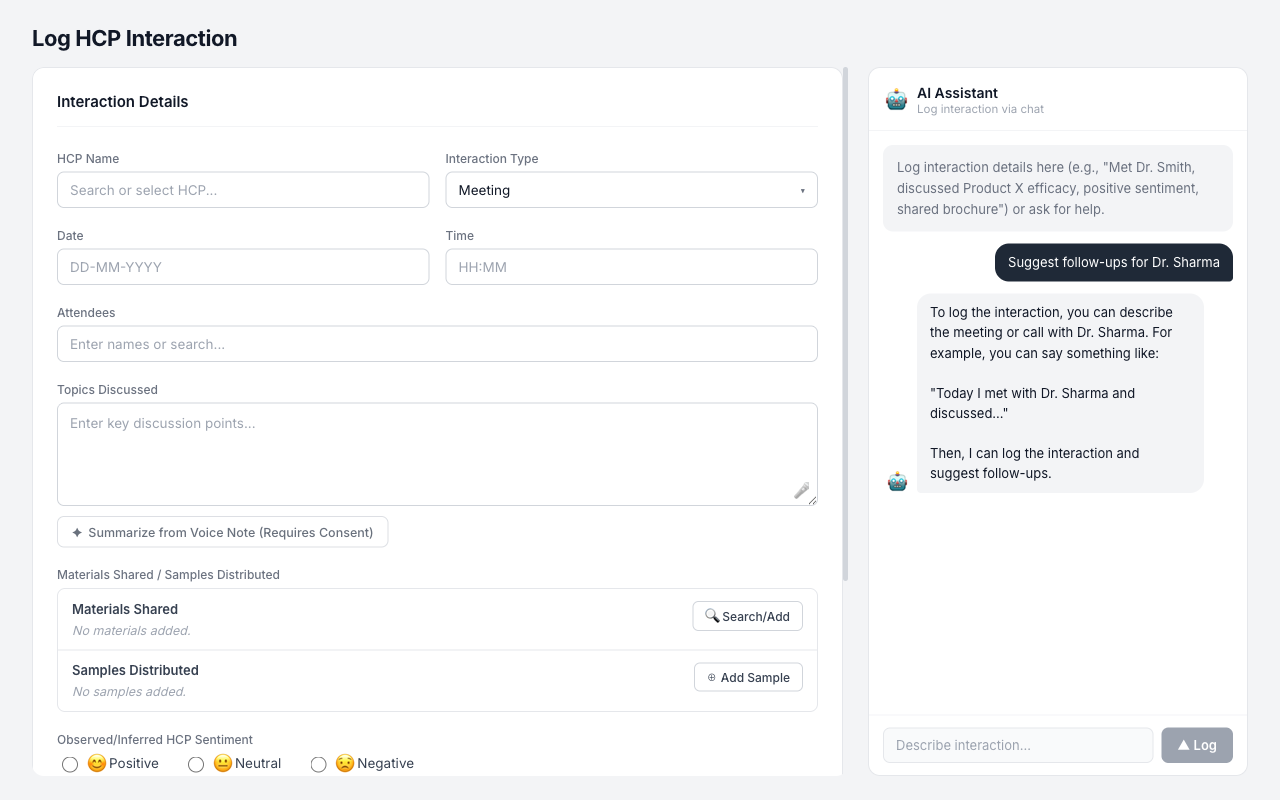
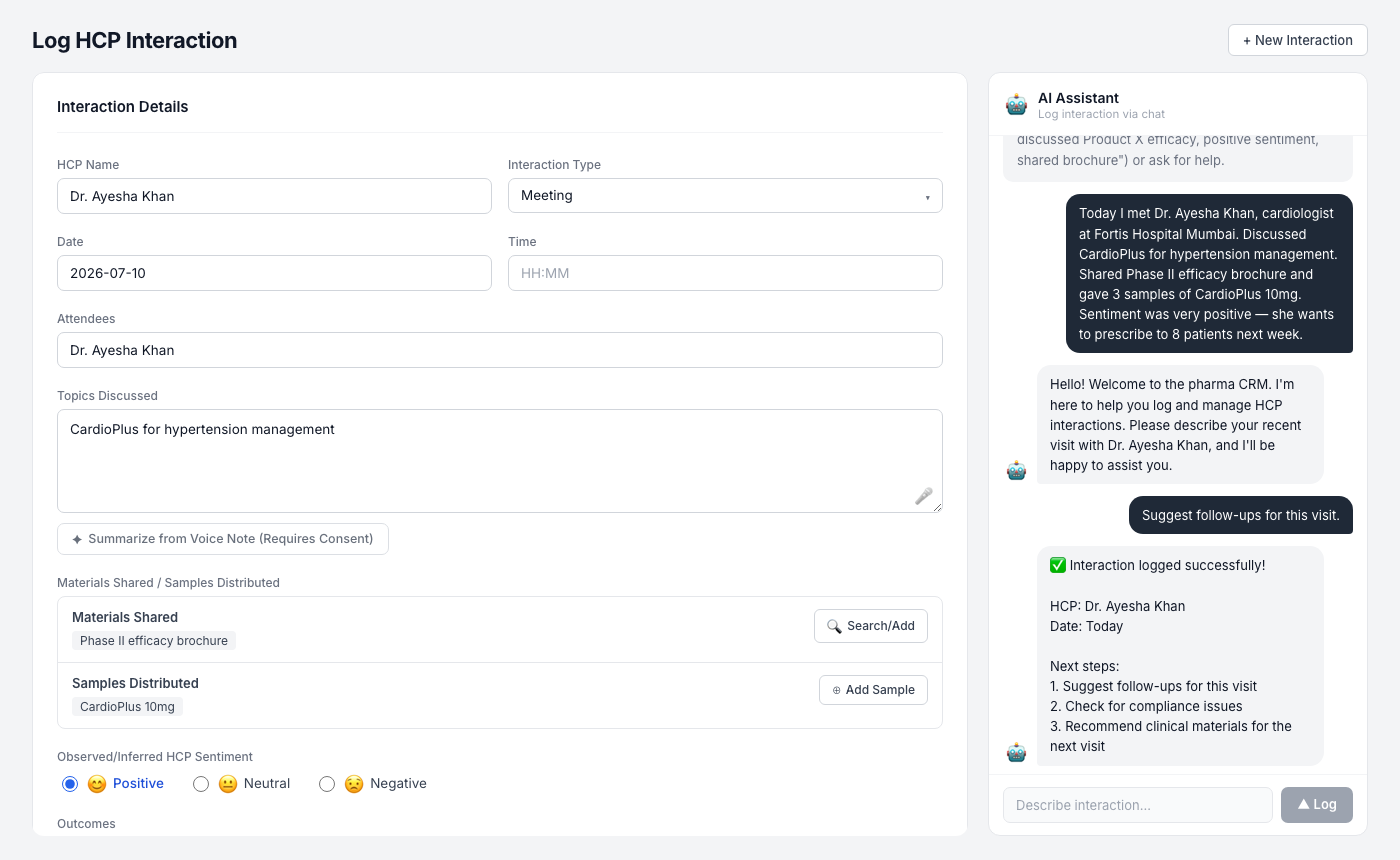
feat: add live screenshots for all 5 tools and scope enforcement, update README

diff --git a/README.md b/README.md
@@ -8,15 +8,41 @@
 
 ---
 
-## Screenshots
+## Live Demo Screenshots
 
-**Empty screen — form and chat ready**
+### Empty screen — form and chat ready to use
 
 ![Empty form](screenshots/01_empty_form.png)
 
-**After logging — AI fills every field from the chat entry**
+---
+
+### After logging — AI fills every field from the chat entry
 
 ![Form filled by AI](screenshots/02_form_filled.png)
+
+---
+
+### Tool 3 — AI suggests HCP-specific follow-up actions
+
+![Follow-ups suggested](screenshots/03_follow_ups.png)
+
+---
+
+### Tool 4 — Compliance check against PhRMA / PDMA / Sunshine Act
+
+![Compliance check](screenshots/04_compliance.png)
+
+---
+
+### Tool 5 — Clinical materials recommended for the next visit
+
+![Materials recommended](screenshots/05_materials.png)
+
+---
+
+### Scope enforcement — off-topic queries are politely rejected
+
+![Off-topic rejected](screenshots/06_offtopic_rejected.png)
 
 ---
 
@@ -47,7 +73,7 @@ sequenceDiagram
     Tool->>LLM: Extraction LLM — NLP → structured JSON
     LLM-->>Tool: { hcp_name, date, topics, sentiment, outcomes, ... }
     Tool->>DB: INSERT INTO interactions → gets id = 7
-    Tool-->>Agent: "Interaction logged (ID 7). HCP: Dr. Sharma | Sentiment: Positive ..."
+    Tool-->>Agent: "Interaction logged (ID 7). HCP: Dr. Ayesha Khan ..."
 
     Agent->>LLM: Router LLM — anything else to do?
     LLM-->>Agent: No tool calls — compose final reply
@@ -82,19 +108,21 @@ sequenceDiagram
 ## The 5 LangGraph Tools
 
 | # | Tool | What it does | Triggered when rep says |
-|---|------|-------------|-----------------|
-| 1 | `log_interaction` | Extracts all 14 form fields from the chat entry → INSERT to DB | *"Today I met Dr. Priya Sharma at Apollo…"* |
-| 2 | `edit_interaction` | Differential update — changes only the mentioned fields, keeps everything else | *"Actually the sentiment was Neutral, not Positive"* |
+|---|------|-------------|------------------------|
+| 1 | `log_interaction` | Extracts all 14 form fields from the chat entry → INSERT to DB | *"Today I met Dr. Ayesha Khan at Fortis…"* |
+| 2 | `edit_interaction` | Differential update — changes only the mentioned fields, keeps everything else | *"Actually the interaction type was a conference"* |
 | 3 | `suggest_follow_ups` | Generates 4–5 HCP-specific, time-bound follow-up actions | *"Suggest follow-ups for this visit"* |
-| 4 | `check_compliance` | Audits against PhRMA Code, PDMA sample rules, Sunshine Act | *"Is this interaction compliant?"* |
-| 5 | `recommend_materials` | Suggests clinical materials for the next visit; skips what was already shared | *"What should I bring to Dr. Sharma next time?"* |
+| 4 | `check_compliance` | Audits against PhRMA Code, PDMA sample rules, Sunshine Act | *"Check compliance for this interaction"* |
+| 5 | `recommend_materials` | Suggests clinical materials for the next visit; skips what was already shared | *"What materials should I bring for the next visit?"* |
+
+The AI also enforces **scope** — any question outside HCP interaction management is politely redirected. Greetings (hi / hello) get a single welcome line asking the rep to describe their visit.
 
 **Why LangGraph instead of a simple LLM call?**
 
 The ReAct loop means the LLM sees tool results and keeps reasoning. This enables:
-- **Chaining**: "Check compliance and suggest follow-ups" → agent calls both tools in sequence
-- **Selective use**: A general question triggers no tool — no wasted DB writes
-- **Semantic routing**: The LLM reads tool docstrings to decide — not keyword matching
+- **Chaining**: "Check compliance and suggest follow-ups" → agent calls both tools in sequence, one result informs the next
+- **Selective use**: A general question triggers no tool — no wasted DB writes or LLM calls
+- **Semantic routing**: The LLM reads tool docstrings to decide which tool to call — not keyword matching
 
 ---
 
@@ -105,6 +133,7 @@ ai-hcp-crm/
 ├── docker-compose.yml             # Run everything with one command
 ├── .env.example                   # Environment variable template
 ├── README.md
+├── screenshots/                   # Live demo screenshots
 │
 ├── backend/
 │   ├── Dockerfile
@@ -116,7 +145,7 @@ ai-hcp-crm/
 │   ├── models.py                  # Interaction + ChatMessage ORM models
 │   ├── schemas.py                 # Pydantic request/response schemas
 │   ├── agent/
-│   │   ├── graph.py               # LangGraph StateGraph (ReAct loop)
+│   │   ├── graph.py               # LangGraph StateGraph (ReAct loop + system prompt)
 │   │   └── tools.py               # 5 tools via factory pattern
 │   └── routers/
 │       └── interactions.py        # POST /api/chat endpoint
@@ -141,15 +170,6 @@ ai-hcp-crm/
 
 ---
 
-## Prerequisites
-
-| Tool | Version |
-|------|---------|
-| Docker + Docker Compose | Any recent version |
-| Groq API key | Free at [console.groq.com](https://console.groq.com) |
-
----
-
 ## Run with Docker (recommended)
 
 ```bash
@@ -162,7 +182,7 @@ cp .env.example .env
 docker compose up --build
 ```
 
-Open `http://localhost:3000`
+Open **http://localhost:3000**
 
 ---
 
@@ -184,7 +204,7 @@ source .venv/bin/activate
 uv pip install -e "."
 
 cp .env.example .env
-# Set GROQ_API_KEY and DATABASE_URL in .env
+# Set GROQ_API_KEY and DATABASE_URL
 
 uvicorn main:app --reload --port 8000
 ```
@@ -195,6 +215,8 @@ pip install -r requirements.txt
 uvicorn main:app --reload --port 8000
 ```
 
+API docs: **http://localhost:8000/docs**
+
 ### 3. Frontend
 
 ```bash
@@ -203,7 +225,7 @@ npm install
 npm run dev
 ```
 
-Open `http://localhost:3000` · API docs at `http://localhost:8000/docs`
+Open **http://localhost:3000**
 
 ### Environment Variables (`backend/.env`)
 
@@ -222,6 +244,8 @@ AGENT_MODEL=llama-3.1-8b-instant
 **Factory pattern for tools** — `create_tools(db, state)` creates 5 tool closures per HTTP request. Each closure captures the same SQLAlchemy session and the same mutable `agent_state` dict, so `log_interaction` can write the new `interaction_id` back for the router to read after the graph finishes.
 
 **Two LLM calls per tool** — The Router LLM (agent node) only decides which tool to call. The Extraction LLM runs inside each tool with a focused NLP prompt. This keeps each call small and accurate.
+
+**AI scope enforcement** — The system prompt strictly limits the AI to HCP interaction topics only. Off-topic queries return a fixed redirect message. This prevents misuse and keeps the assistant focused.
 
 **Scroll isolation** — `html, body, #root { overflow: hidden }` locks the page. Chat scrolls via `messagesRef.scrollTop = scrollHeight`. FormPanel uses `useLayoutEffect` to restore scroll position across Redux re-renders so the form never jumps when AI populates it.
 
